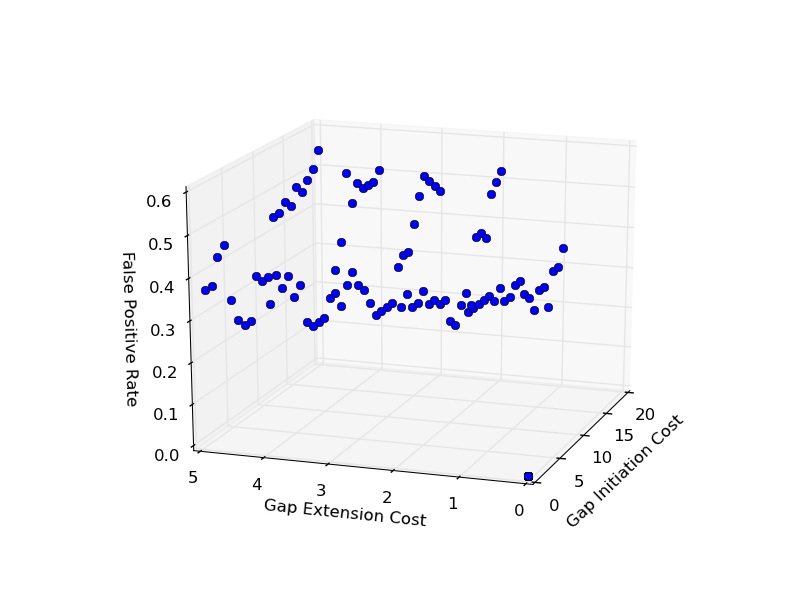
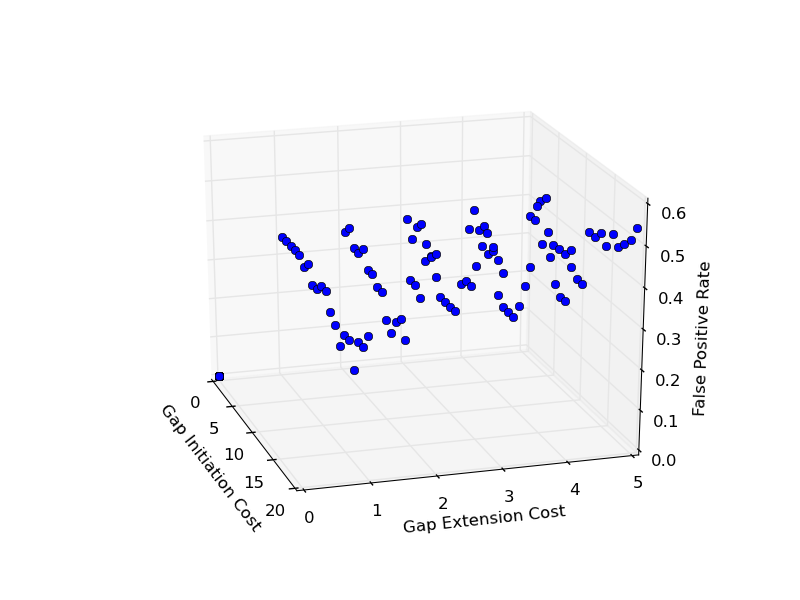
[['BLOSUM50', 0.22], ['BLOSUM62', 0.22], ['MATIO', 0.36], ['PAM100',0.26], ['PAM250', 0.3]]

diff --git a/SmithWaterman/seq_list_SW.py b/SmithWaterman/seq_list_SW.py
@@ -90,13 +90,13 @@ def main():
     neg_seq_list_file = home+neg_seq_list_name+'.txt'
     subMatrixFile = sys.argv[4]
     subMatrixFile_list = ['BLOSUM50', 'BLOSUM62', 'MATIO', 'PAM100', 'PAM250']
-    FP_array = np.zeros([120,3])
-    #FP_array = []
+    #FP_array = np.zeros([120,3])
+    FP_array = []
     i=0
     #gap_init_cost, gap_ext_cost
     [sub_Matrix, origSubMatrix, AAlist] = subMdict.mk_dict(home+subMatrixFile)
     
-    
+    '''
     #for testing gap costs
     
     for gap_init in range(1,21):
@@ -119,14 +119,14 @@ def main():
     for i in range(0,len(subMatrixFile_list)):
         [sub_Matrix, origsubMatrix, AAlist] = subMdict.mk_dict(home+subMatrixFile_list[i])
     
-        [pos_score_list, pos_alignment_array] = scores_from_seq_list(home,pos_seq_list_file, sub_Matrix, origSubMatrix,13, 3)
-        [neg_score_list, neg_alignment_array] = scores_from_seq_list(home,neg_seq_list_file, sub_Matrix, origSubMatrix, 13, 3)
+        [pos_score_list, pos_alignment_array] = scores_from_seq_list(home,pos_seq_list_file, sub_Matrix, origSubMatrix,7, 3)
+        [neg_score_list, neg_alignment_array] = scores_from_seq_list(home,neg_seq_list_file, sub_Matrix, origSubMatrix, 7, 3)
         false_pos_rt= false_pos_rate(pos_score_list, neg_score_list)
         FP_array.append([subMatrixFile_list[i], false_pos_rt])
         
     print FP_array
          
-    '''      
+         
             
             
     print 'done'
